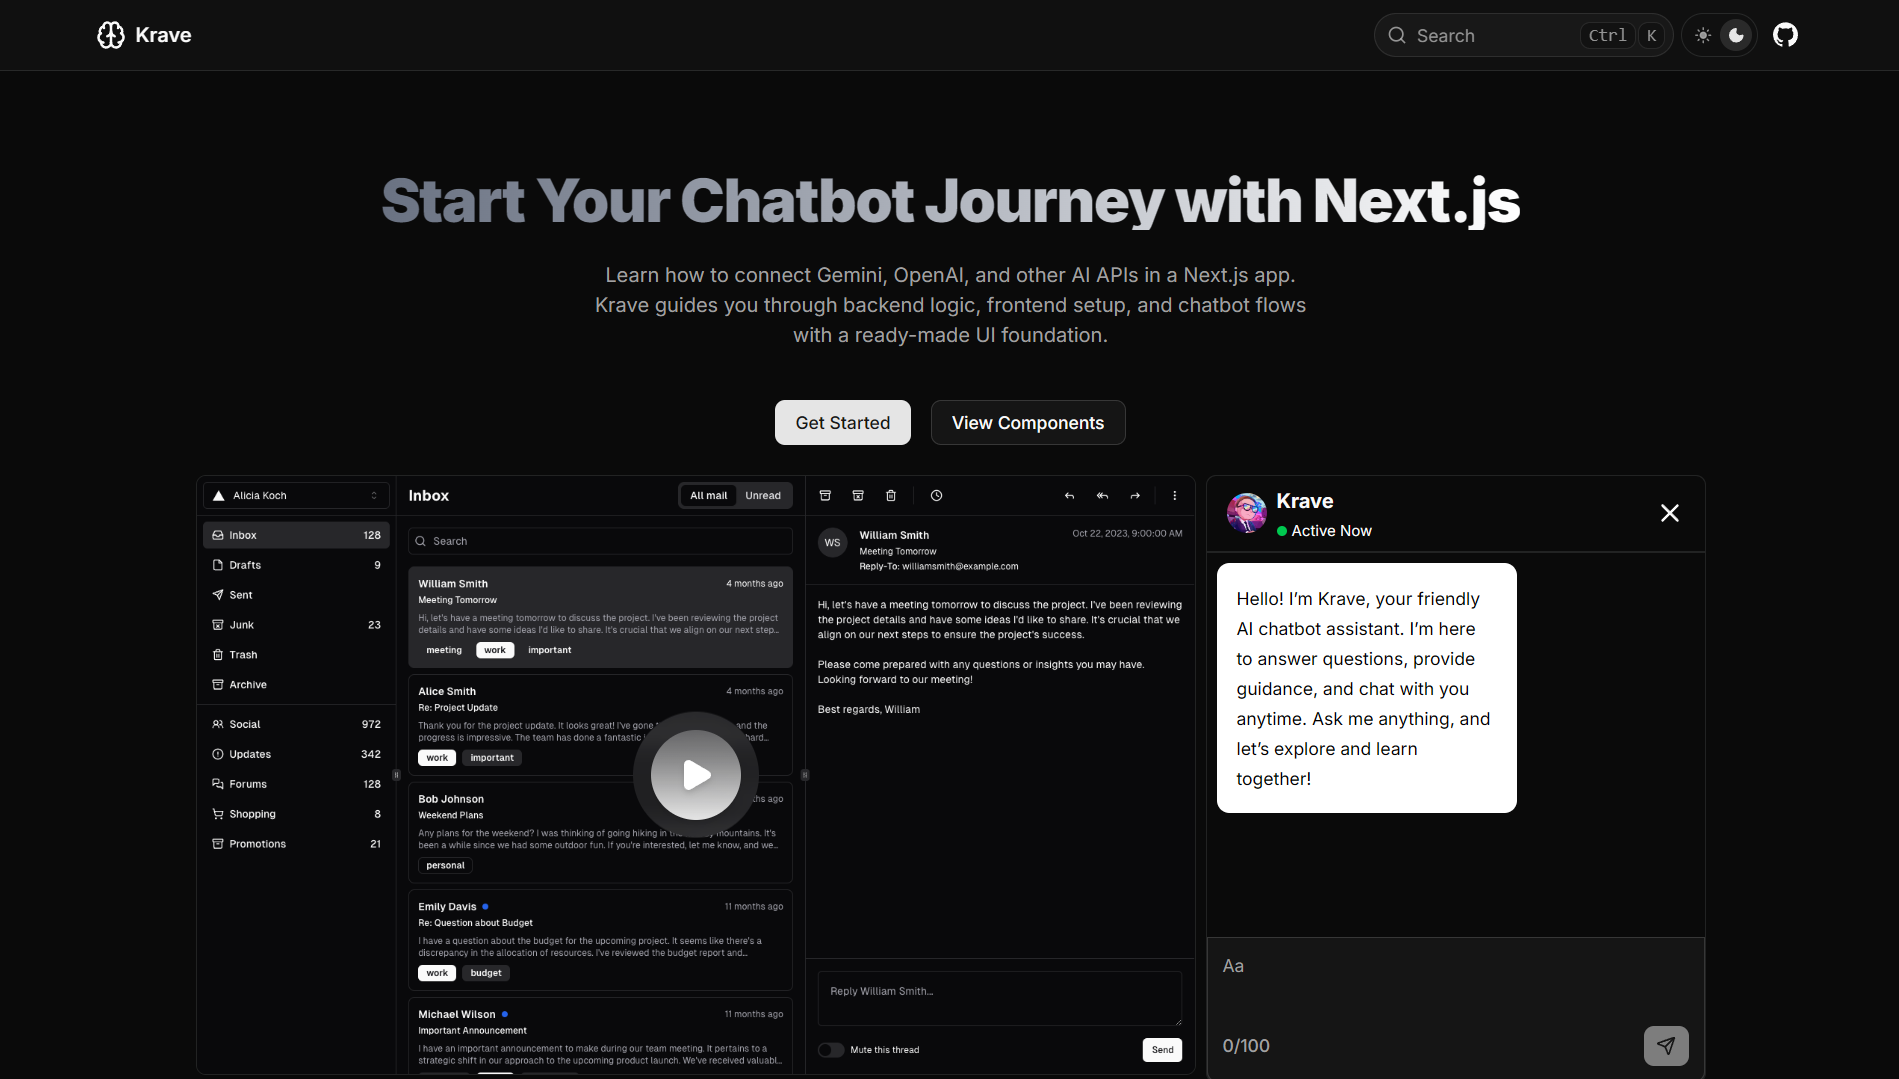
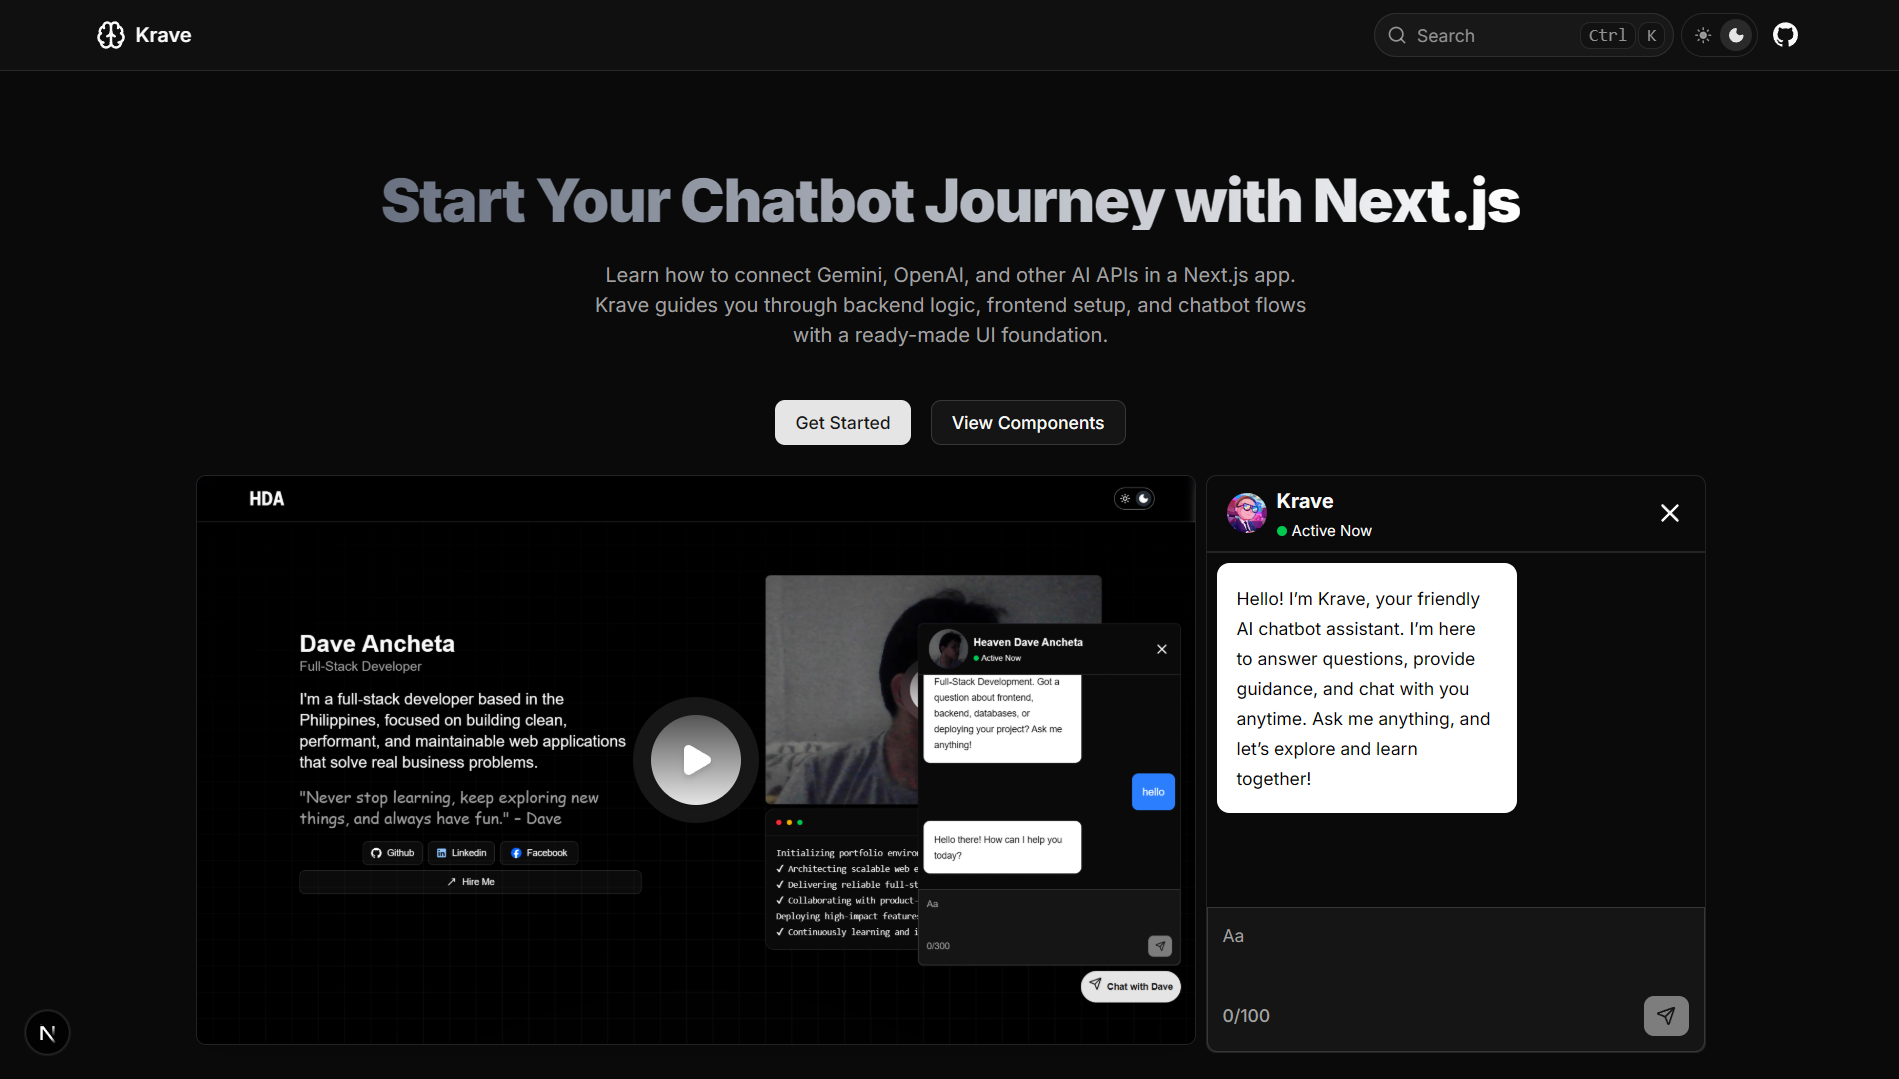
Refactor code structure for improved readability and maintainability

diff --git a/src/app/(home)/page.tsx b/src/app/(home)/page.tsx
@@ -1,10 +1,22 @@
+"use client";
 import ChatContainer from '@/components/ai/chat-container';
 import { Button } from '@/components/ui/button';
 import { HeroVideoDialog } from '@/components/ui/hero-video-dialog';
-import { Metadata } from 'next';
 import Link from 'next/link';
+import { useTheme } from 'next-themes';
+import { use, useEffect, useState } from 'react';
 
 export default function HomePage() {
+  const [isMounted, setIsMounted] = useState<boolean>(false);
+  const { resolvedTheme } = useTheme();
+  const isDark = resolvedTheme === 'dark';
+
+  useEffect(() => {
+    setIsMounted(true);
+  }, []);
+
+  const thumbnailSrc = isMounted && isDark ? "/dark-portfolio.png" : "/portfolio.png";
+
   return (
     <div className="wrapper flex flex-col flex-1 items-center justify-center text-center gap-6 px-4">
       <h1 className="text-3xl md:text-5xl font-black tracking-tight text-transparent 
@@ -37,14 +49,14 @@ export default function HomePage() {
             className="block dark:hidden"
             animationStyle="top-in-bottom-out"
             videoSrc="https://www.youtube.com/embed/qh3NGpYRG3I?si=4rb-zSdDkVK9qxxb"
-            thumbnailSrc="https://startup-template-sage.vercel.app/hero-light.png"
+            thumbnailSrc={thumbnailSrc}
             thumbnailAlt="Hero Video"
           />
           <HeroVideoDialog
             className="hidden dark:block"
             animationStyle="top-in-bottom-out"
             videoSrc="https://www.youtube.com/embed/qh3NGpYRG3I?si=4rb-zSdDkVK9qxxb"
-            thumbnailSrc="https://startup-template-sage.vercel.app/hero-dark.png"
+            thumbnailSrc={thumbnailSrc}
             thumbnailAlt="Hero Video"
           />
         </div>
